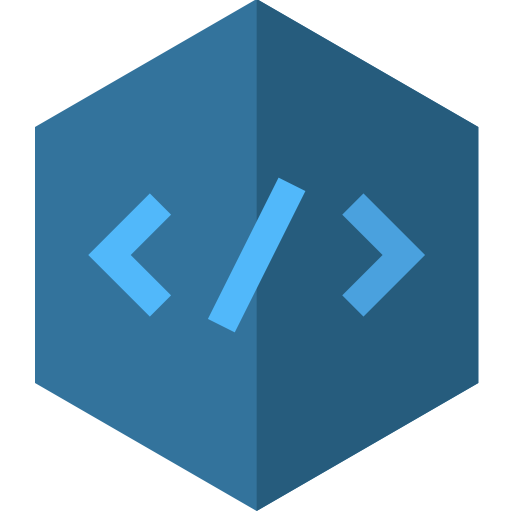
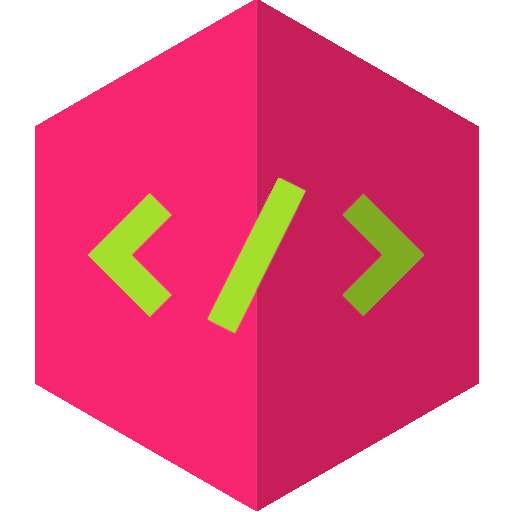
update
icon

diff --git a/index.html b/index.html
@@ -3,12 +3,13 @@
 <head>
 	<meta charset="utf-8">
 	<meta name="viewport" content="width=device-width,initial-scale=1">
-	<title>Homepage</title>
+	<title>static void Main(string[] args)</title>
+	<link rel="icon" href="coding.png">
 	<link rel="stylesheet" type="text/css" href="style.css">
 	<script src="script.js"></script>
 </head>
 <body>
-	<img src="banner.jpg" id="banner">
+	<section id="banner"><img src="banner.jpg"></section>
 	<nav id="navbar">
 		<a class="navitem active" href="#banner">Home</a>
 		<a class="navitem" href="#Project">Projects</a>
@@ -18,18 +19,18 @@
 
 	<div class="body">
 		Lorem ipsum dolor sit amet, consetetur sadipscing elitr, sed diam nonumy eirmod tempor invidunt ut labore et dolore magna aliquyam erat, sed diam voluptua. At vero eos et accusam et justo duo dolores et ea rebum. Stet clita kasd gubergren, no sea takimata sanctus est Lorem ipsum dolor sit amet. Lorem ipsum dolor sit amet, consetetur sadipscing elitr, sed diam nonumy eirmod tempor invidunt ut labore et dolore magna aliquyam erat, sed diam voluptua. At vero eos et accusam et justo duo dolores et ea rebum. Stet clita kasd gubergren, no sea takimata sanctus est Lorem ipsum dolor sit amet. Lorem ipsum dolor sit amet, consetetur sadipscing elitr, sed diam nonumy eirmod tempor invidunt ut labore et dolore magna aliquyam erat, sed diam voluptua. At vero eos et accusam et justo duo dolores et ea rebum. Stet clita kasd gubergren, no sea takimata sanctus est Lorem ipsum dolor sit amet. Duis autem vel eum iriure dolor in hendrerit in vulputate velit esse molestie consequat, vel illum dolore eu feugiat nulla facilisis at vero eros et accumsan et iusto odio dignissim qui blandit praesent luptatum zzril delenit augue duis dolore te feugait nulla facilisi. Lorem ipsum dolor sit amet, consectetuer adipiscing elit, sed diam nonummy nibh euismod tincidunt ut laoreet dolore magna aliquam erat volutpat. Ut wisi enim ad minim veniam, quis nostrud exerci tation ullamcorper suscipit lobortis nisl ut aliquip ex ea commodo consequat. Duis autem vel eum iriure dolor in hendrerit in vulputate velit esse molestie consequat, vel illum dolore eu feugiat nulla facilisis at vero eros et accumsan et iusto odio dignissim qui blandit praesent luptatum zzril delenit augue duis dolore te feugait nulla facilisi. Nam liber tempor cum soluta nobis eleifend option congue nihil imperdiet doming id quod mazim placerat facer possim assum. Lorem ipsum dolor sit amet, consectetuer adipiscing elit, sed diam nonummy nibh euismod tincidunt ut laoreet dolore magna aliquam erat volutpat. Ut wisi enim ad minim veniam, quis nostrud exerci tation ullamcorper suscipit lobortis nisl ut aliquip ex ea commodo consequat. 
-		<div id="Project">
+		<section id="Project">
 			<h2>Projects</h2>
 			Lorem ipsum dolor sit amet, consetetur sadipscing elitr, sed diam nonumy eirmod tempor invidunt ut labore et dolore magna aliquyam erat, sed diam voluptua. At vero eos et accusam et justo duo dolores et ea rebum. Stet clita kasd gubergren, no sea takimata sanctus est Lorem ipsum dolor sit amet. Lorem ipsum dolor sit amet, consetetur sadipscing elitr, sed diam nonumy eirmod tempor invidunt ut labore et dolore magna aliquyam erat, sed diam voluptua. At vero eos et accusam et justo duo dolores et ea rebum. Stet clita kasd gubergren, no sea takimata sanctus est Lorem ipsum dolor sit amet. Lorem ipsum dolor sit amet, consetetur sadipscing elitr, sed diam nonumy eirmod tempor invidunt ut labore et dolore magna aliquyam erat, sed diam voluptua. At vero eos et accusam et justo duo dolores et ea rebum. Stet clita kasd gubergren, no sea takimata sanctus est Lorem ipsum dolor sit amet. Duis autem vel eum iriure dolor in hendrerit in vulputate velit esse molestie consequat, vel illum dolore eu feugiat nulla facilisis at vero eros et accumsan et iusto odio dignissim qui blandit praesent luptatum zzril delenit augue duis dolore te feugait nulla facilisi. Lorem ipsum dolor sit amet, consectetuer adipiscing elit, sed diam nonummy nibh euismod tincidunt ut laoreet dolore magna aliquam erat volutpat. Ut wisi enim ad minim veniam, quis nostrud exerci tation ullamcorper suscipit lobortis nisl ut aliquip ex ea commodo consequat. Duis autem vel eum iriure dolor in hendrerit in vulputate velit esse molestie consequat, vel illum dolore eu feugiat nulla facilisis at vero eros et accumsan et iusto odio dignissim qui blandit praesent luptatum zzril delenit augue duis dolore te feugait nulla facilisi. Nam liber tempor cum soluta nobis eleifend option congue nihil imperdiet doming id quod mazim placerat facer possim assum. Lorem ipsum dolor sit amet, consectetuer adipiscing elit, sed diam nonummy nibh euismod tincidunt ut laoreet dolore magna aliquam erat volutpat. Ut wisi enim ad minim veniam, quis nostrud exerci tation ullamcorper suscipit lobortis nisl ut aliquip ex ea commodo consequat.
-		</div>
-		<div id="Info">
+		</section>
+		<section id="Info">
 			<h2>Info</h2>
 			Lorem ipsum dolor sit amet, consetetur sadipscing elitr, sed diam nonumy eirmod tempor invidunt ut labore et dolore magna aliquyam erat, sed diam voluptua. At vero eos et accusam et justo duo dolores et ea rebum. Stet clita kasd gubergren, no sea takimata sanctus est Lorem ipsum dolor sit amet. Lorem ipsum dolor sit amet, consetetur sadipscing elitr, sed diam nonumy eirmod tempor invidunt ut labore et dolore magna aliquyam erat, sed diam voluptua. At vero eos et accusam et justo duo dolores et ea rebum. Stet clita kasd gubergren, no sea takimata sanctus est Lorem ipsum dolor sit amet. Lorem ipsum dolor sit amet, consetetur sadipscing elitr, sed diam nonumy eirmod tempor invidunt ut labore et dolore magna aliquyam erat, sed diam voluptua. At vero eos et accusam et justo duo dolores et ea rebum. Stet clita kasd gubergren, no sea takimata sanctus est Lorem ipsum dolor sit amet. Duis autem vel eum iriure dolor in hendrerit in vulputate velit esse molestie consequat, vel illum dolore eu feugiat nulla facilisis at vero eros et accumsan et iusto odio dignissim qui blandit praesent luptatum zzril delenit augue duis dolore te feugait nulla facilisi. Lorem ipsum dolor sit amet, consectetuer adipiscing elit, sed diam nonummy nibh euismod tincidunt ut laoreet dolore magna aliquam erat volutpat. Ut wisi enim ad minim veniam, quis nostrud exerci tation ullamcorper suscipit lobortis nisl ut aliquip ex ea commodo consequat. Duis autem vel eum iriure dolor in hendrerit in vulputate velit esse molestie consequat, vel illum dolore eu feugiat nulla facilisis at vero eros et accumsan et iusto odio dignissim qui blandit praesent luptatum zzril delenit augue duis dolore te feugait nulla facilisi. Nam liber tempor cum soluta nobis eleifend option congue nihil imperdiet doming id quod mazim placerat facer possim assum. Lorem ipsum dolor sit amet, consectetuer adipiscing elit, sed diam nonummy nibh euismod tincidunt ut laoreet dolore magna aliquam erat volutpat. Ut wisi enim ad minim veniam, quis nostrud exerci tation ullamcorper suscipit lobortis nisl ut aliquip ex ea commodo consequat. 
-		</div>
-		<div id="Impressum">
+		</section>
+		<section id="Impressum">
 			<h2>Impressum</h2>
 			Lorem ipsum dolor sit amet, consetetur sadipscing elitr, sed diam nonumy eirmod tempor invidunt ut labore et dolore magna aliquyam erat, sed diam voluptua. At vero eos et accusam et justo duo dolores et ea rebum. Stet clita kasd gubergren, no sea takimata sanctus est Lorem ipsum dolor sit amet. Lorem ipsum dolor sit amet, consetetur sadipscing elitr, sed diam nonumy eirmod tempor invidunt ut labore et dolore magna aliquyam erat, sed diam voluptua. At vero eos et accusam et justo duo dolores et ea rebum. Stet clita kasd gubergren, no sea takimata sanctus est Lorem ipsum dolor sit amet. Lorem ipsum dolor sit amet, consetetur sadipscing elitr, sed diam nonumy eirmod tempor invidunt ut labore et dolore magna aliquyam erat, sed diam voluptua. At vero eos et accusam et justo duo dolores et ea rebum. Stet clita kasd gubergren, no sea takimata sanctus est Lorem ipsum dolor sit amet. Duis autem vel eum iriure dolor in hendrerit in vulputate velit esse molestie consequat, vel illum dolore eu feugiat nulla facilisis at vero eros et accumsan et iusto odio dignissim qui blandit praesent luptatum zzril delenit augue duis dolore te feugait nulla facilisi. Lorem ipsum dolor sit amet, consectetuer adipiscing elit, sed diam nonummy nibh euismod tincidunt ut laoreet dolore magna aliquam erat volutpat. Ut wisi enim ad minim veniam, quis nostrud exerci tation ullamcorper suscipit lobortis nisl ut aliquip ex ea commodo consequat. Duis autem vel eum iriure dolor in hendrerit in vulputate velit esse molestie consequat, vel illum dolore eu feugiat nulla facilisis at vero eros et accumsan et iusto odio dignissim qui blandit praesent luptatum zzril delenit augue duis dolore te feugait nulla facilisi. Nam liber tempor cum soluta nobis eleifend option congue nihil imperdiet doming id quod mazim placerat facer possim assum. Lorem ipsum dolor sit amet, consectetuer adipiscing elit, sed diam nonummy nibh euismod tincidunt ut laoreet dolore magna aliquam erat volutpat. Ut wisi enim ad minim veniam, quis nostrud exerci tation ullamcorper suscipit lobortis nisl ut aliquip ex ea commodo consequat.
-		</div>
+		</section>
 	</div>
 </body>
 </html>

diff --git a/script.js b/script.js
@@ -1,18 +1,20 @@
-// Alle Überschriften
-var nav_items = document.getElementsByClassName("navitem");
+// Alle Listen
+const nav_items = document.getElementsByClassName("navitem");
+const sections = document.getElementsByTagName("section");
 
+// Navbar-Scroll aktualisierung
 function scroll() {
 	// Navbar verschiebung
 	let img_height = document.getElementById("banner").offsetHeight;
 	let nav = document.getElementById("navbar");
 
 	if (window.pageYOffset <= img_height) {
-		nav.style.top = (img_height - window.pageYOffset + 7) + "px";
+		nav.style.top = (img_height - window.pageYOffset) + "px";
 	}
 	else { nav.style.top = "7px"}
 
 	// Sektion detection
-	for (var section of [document.getElementById("banner"), document.getElementById("Project"), document.getElementById("Info"), document.getElementById("Impressum")]) {
+	for (var section of sections) {
 		if (section.getBoundingClientRect().top < (window.innerHeight / 2) ) {
 			for (var item of nav_items) {
 				if (item.href.includes(section.id)) { item.classList.add('active'); }

diff --git a/style.css b/style.css
@@ -15,7 +15,7 @@ body {
 	margin: 0;
 }
 
-#banner {
+#banner img {
 	width: 100%;
 	height: auto;
 	margin: 0;
